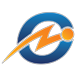
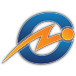
options: retina graphics

Changed region(s): [[0.0263, 0.1316, 1.0, 0.8684]]

diff --git a/less/options.css b/less/options.css
@@ -159,6 +159,7 @@ header #notification .saved {
   /* the bus option in particular */
   /* the showoffice option in particular */
   /* the bigscreen option in particular */
+  /* the coffee subscription option in particular*/
 }
 .item .icon {
   width: 20px;
@@ -494,6 +495,10 @@ header #notification .saved {
   zoom: 0.25;
   -webkit-transform: scale(0.25);
   -webkit-transform-origin: 0 0;
+}
+.item img#coffeeSubscriptionImage {
+  width: 304px;
+  height: auto;
 }
 /* Suggestions for bus stops */
 #busSuggestions {

diff --git a/options.html b/options.html
@@ -378,7 +378,7 @@
             <span>
               Abonner på nytraktet kaffe
             </span><br />
-            <img class="image" src="/img/options-coffee-subscription.png" />
+            <img id="coffeeSubscriptionImage" class="image" src="/img/options-coffee-subscription.png" />
           </label>
         </div>
 

diff --git a/less/options.less b/less/options.less
@@ -507,6 +507,14 @@ header {
     -webkit-transform: scale(0.25);
     -webkit-transform-origin: 0 0;
   }
+
+  /* the coffee subscription option in particular*/
+
+  img#coffeeSubscriptionImage {
+    width: 304px;
+    height: auto;
+  }
+
 }
 
 /* Suggestions for bus stops */
